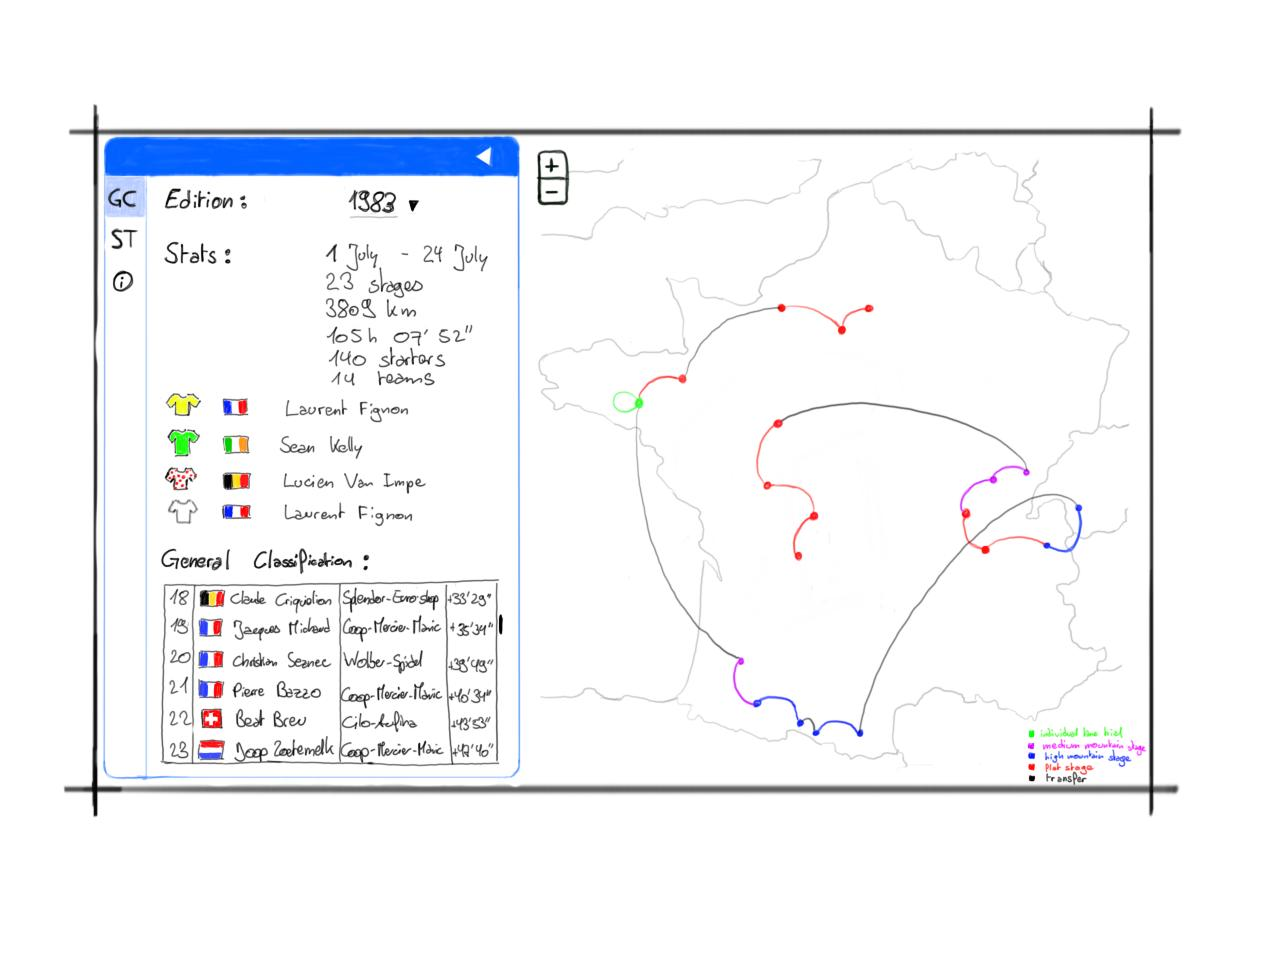
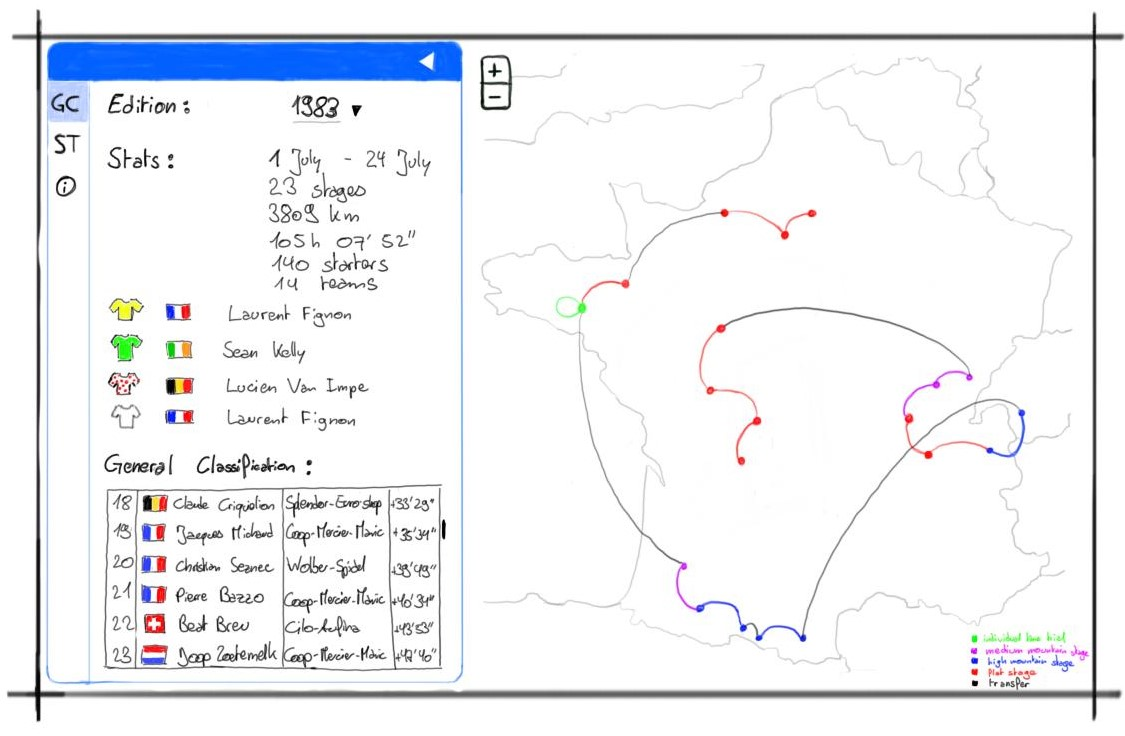
crop sketches and integrate them in text

diff --git a/milestone_2.md b/milestone_2.md
@@ -1,13 +1,14 @@
 # Core Visualization
-![sketch_edition](/images/sketch_edition.jpg)
-![sketch_stages](/images/sketch_stages.jpg)
 
-Our primary interest was to visualize Tour de France structurally, a famous yearly bike race, as stated in milestone one. The visualization will be presented in a map and a sidebar. Specifically, the map presents the basic geometric information (e.g., Starting Point and End Point) of all stages per year. A slider will be shown on the map to slide over the years. In addition, the map can be zoomed in for detailed information on a specific part of a route/stage.
-Moreover, zoom out to get a general overview of stages within a year. In addition to the map, we will present a sidebar on the left side of the map, and the sidebar includes detailed text information organized by two tabs (Edition and Stages). The sidebar firstly shows general information on the race for that year and general information for a stage when the user selects it on the map. The detailed core information for every year and stage includes total distance, winning information (winner, finishing time, nationality, etc.), altitude gain, and final results.
+Our primary interest was to visualize Tour de France structurally, a famous yearly bike race, as stated in milestone one. The visualization will be presented in a map and a sidebar. Specifically, the map presents the basic geometric information (e.g., Starting Point and End Point) of all stages per edition as represented in the first figure. A slider will be shown on the map to slide over the years. In addition, the map can be zoomed in for detailed information on a specific part of a route/stage.
+Moreover, zoom out to get a general overview of stages within a year. In addition to the map, we will present a sidebar on the left side of the map, and the sidebar includes detailed text information organized by two tabs (Edition and Stages). The sidebar firstly shows general information on the race for that year and general information for a stage when the user selects it on the map, as shown in image 2. The detailed core information for every year and stage includes total distance, winning information (winner, finishing time, nationality, etc.), altitude gain, and final results.
 The edition tab gives basic edition information, general classification, and who won what classification (points jersey, yellow jersey). At the same time, the stages tab lists stage information and expandable results containing a summary of position, name, team, time, and state. Users can interact with the visualization in three ways:
 1. As aforementioned, zoom in and out of the map
 2. Choose a specific year by the slider on the map or using the drop down menu in the sidebar
 3. Select a stage by clicking on the map or through the drop-down list on the stages tab.
+
+![sketch_edition](/images/sketch_edition.jpg)
+![sketch_stages](/images/sketch_stages.jpg)
 
 # Tools Used for the Core visualization
 
